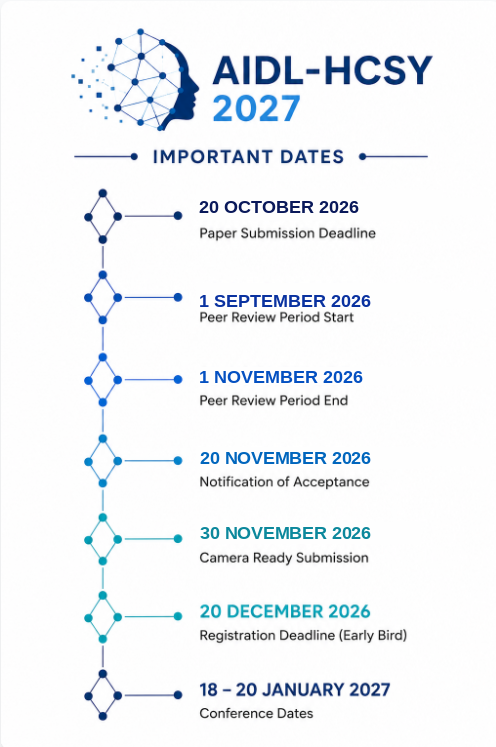
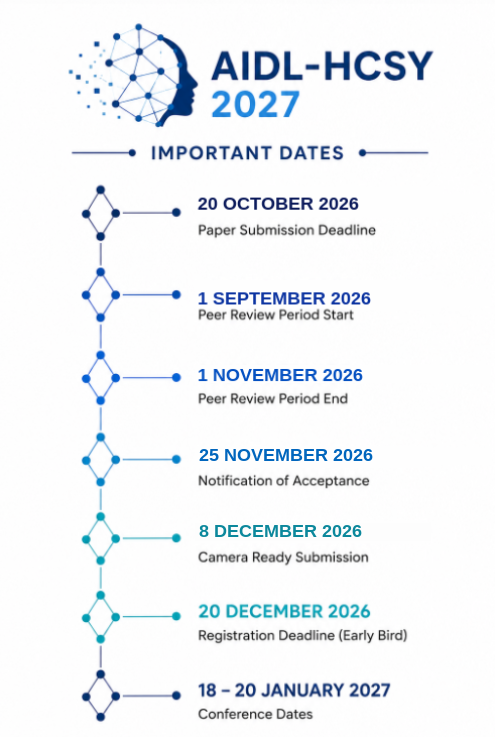
fix

diff --git a/src/Pages/Authors/Authors.jsx b/src/Pages/Authors/Authors.jsx
@@ -101,8 +101,8 @@ export default function Authors() {
                                 { label: "Paper Submission Deadline", value: "20th October 2026", highlight: true },
                                 { label: "Peer Review Period Start", value: "1st September 2026" },
                                 { label: "Peer Review Period End", value: "1st November 2026" },
-                                { label: "Notification of Acceptance", value: "20th November 2026" },
-                                { label: "Camera Ready Submission", value: "30th November 2026" },
+                                { label: "Notification of Acceptance", value: "25th November 2026" },
+                                { label: "Camera Ready Submission", value: "8th December 2026" },
                                 { label: "Registration Deadline (Early Bird)", value: "20th December 2026" },
                                 { label: "Conference Dates", value: "18th – 20th January 2027" },
                             ].map((d) => (

diff --git a/src/data/conferenceData.js b/src/data/conferenceData.js
@@ -31,13 +31,13 @@ export const importantDates = [
     {
         id: 4,
         label: "Notification of Acceptance",
-        date: "20th November 2026",
+        date: "25th November 2026",
         key: "notification"
     },
     {
         id: 5,
         label: "Camera Ready Submission",
-        date: "30th November 2026",
+        date: "8th December 2026",
         key: "cameraReady"
     },
     {
